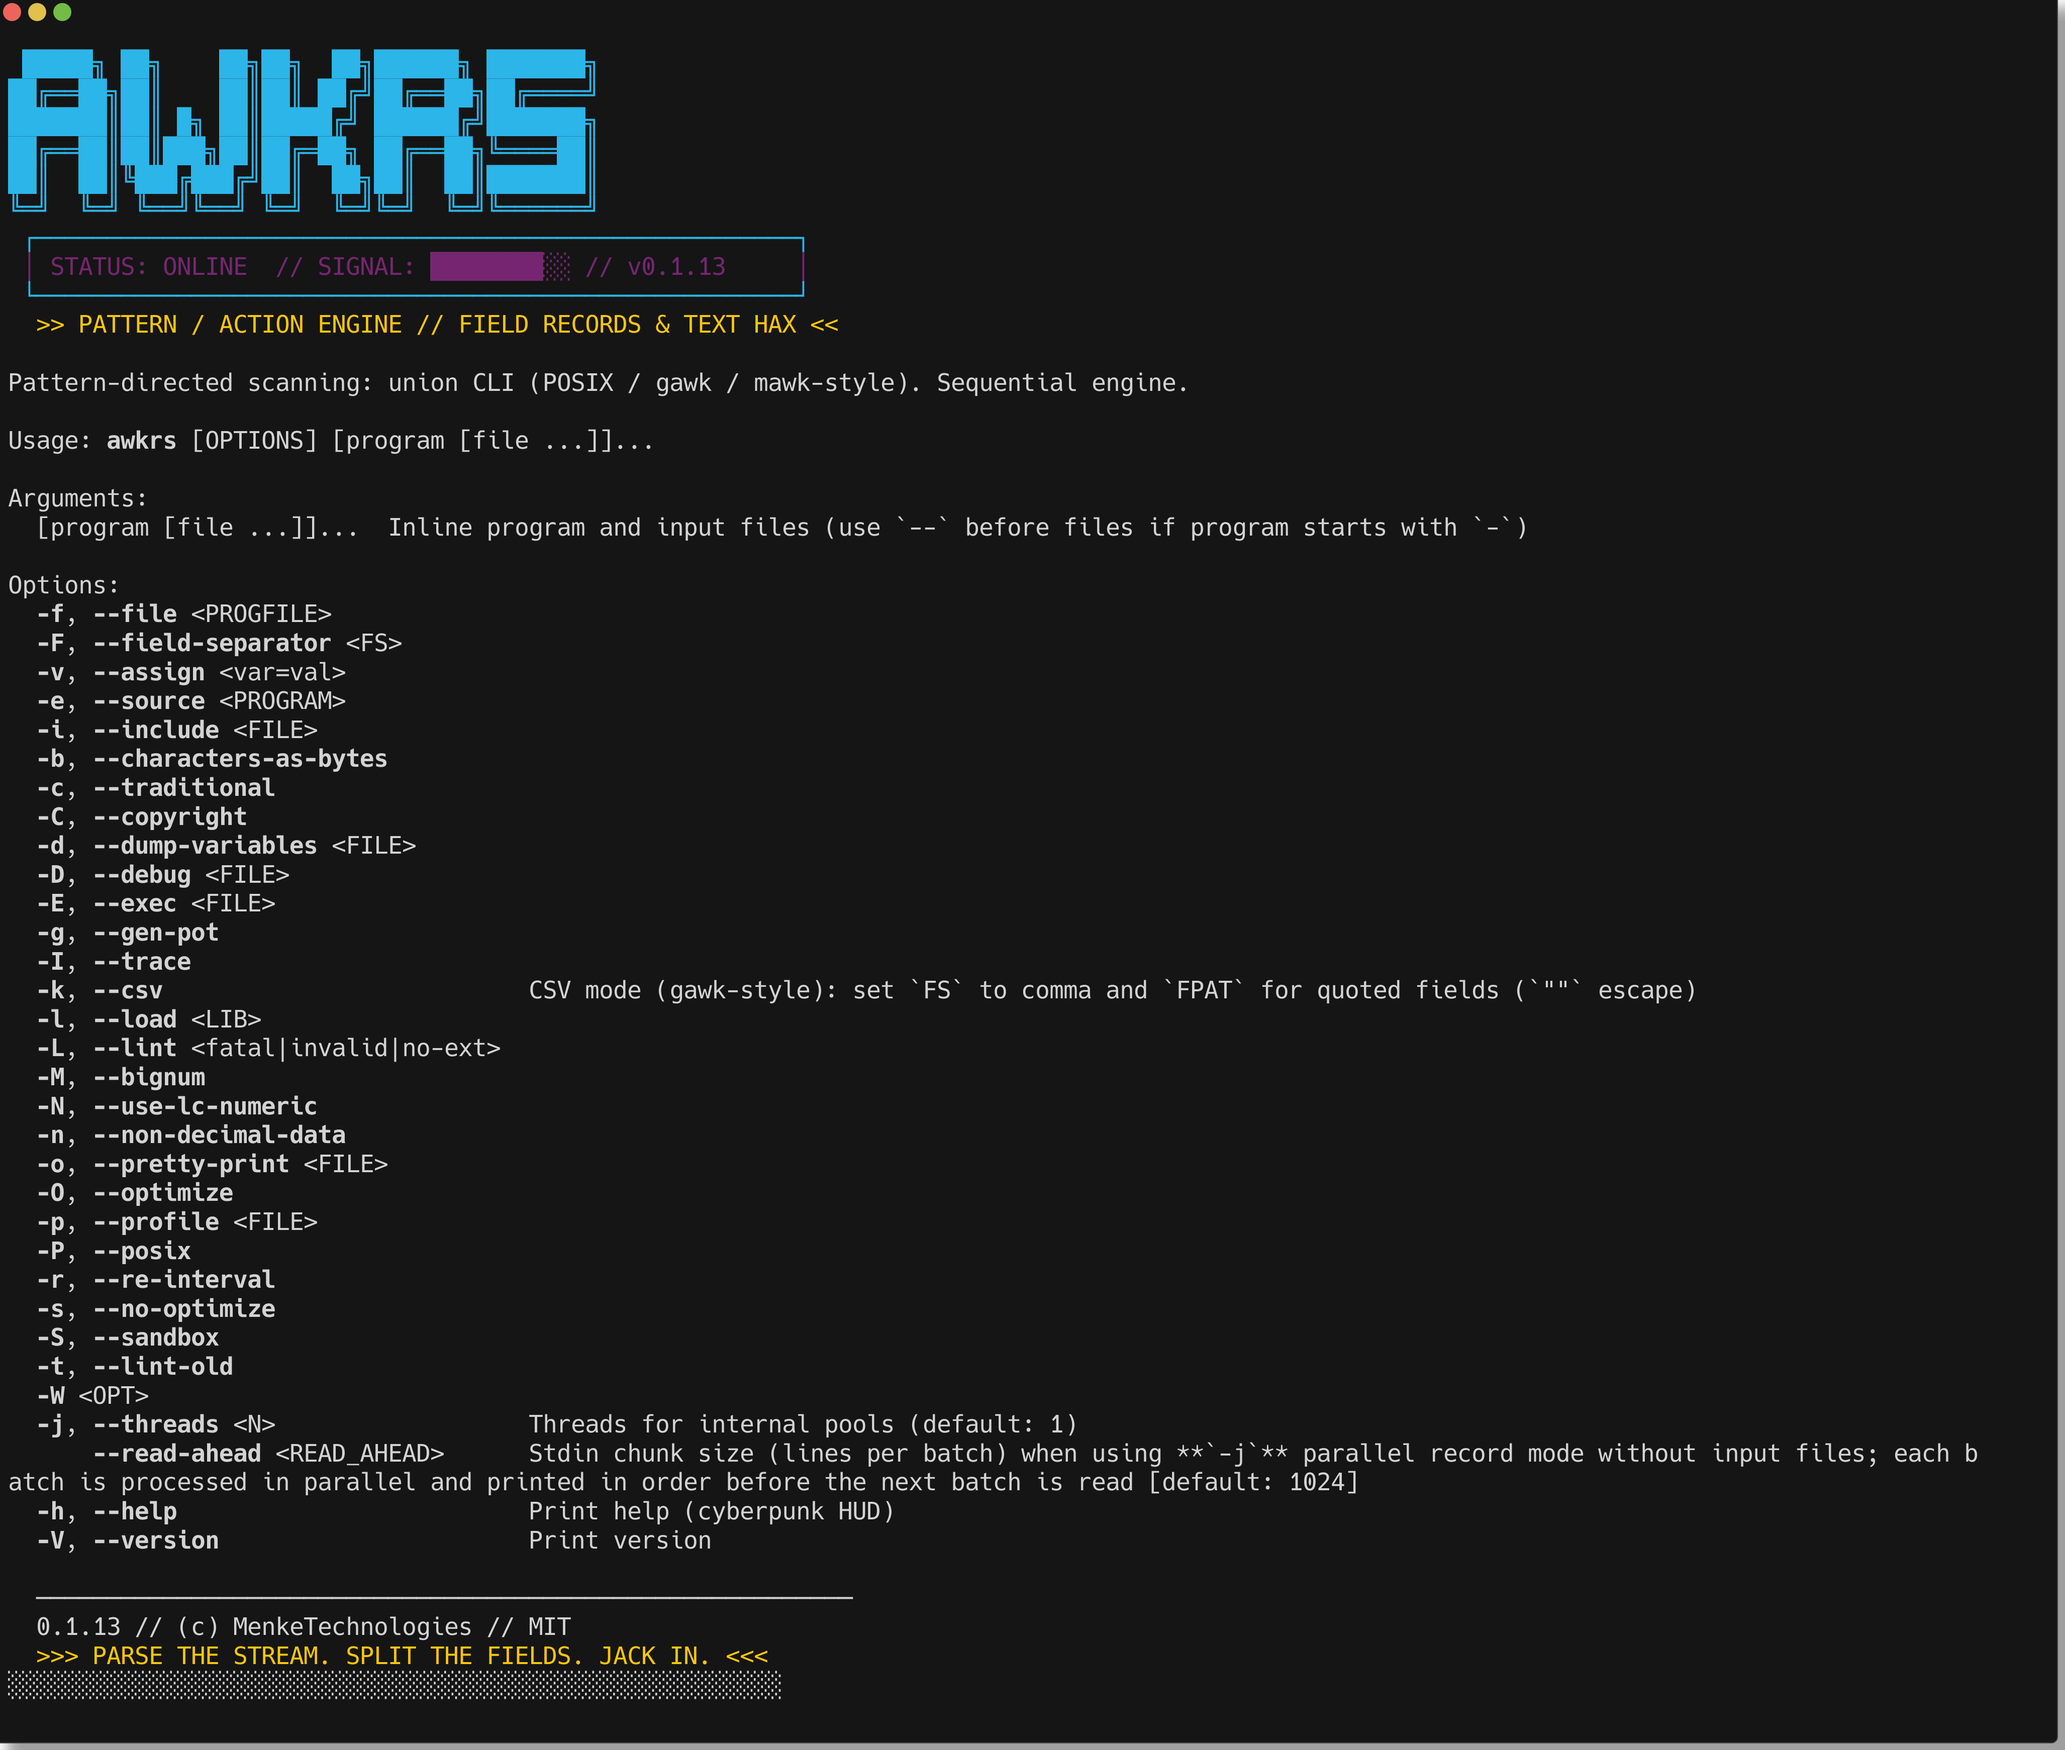
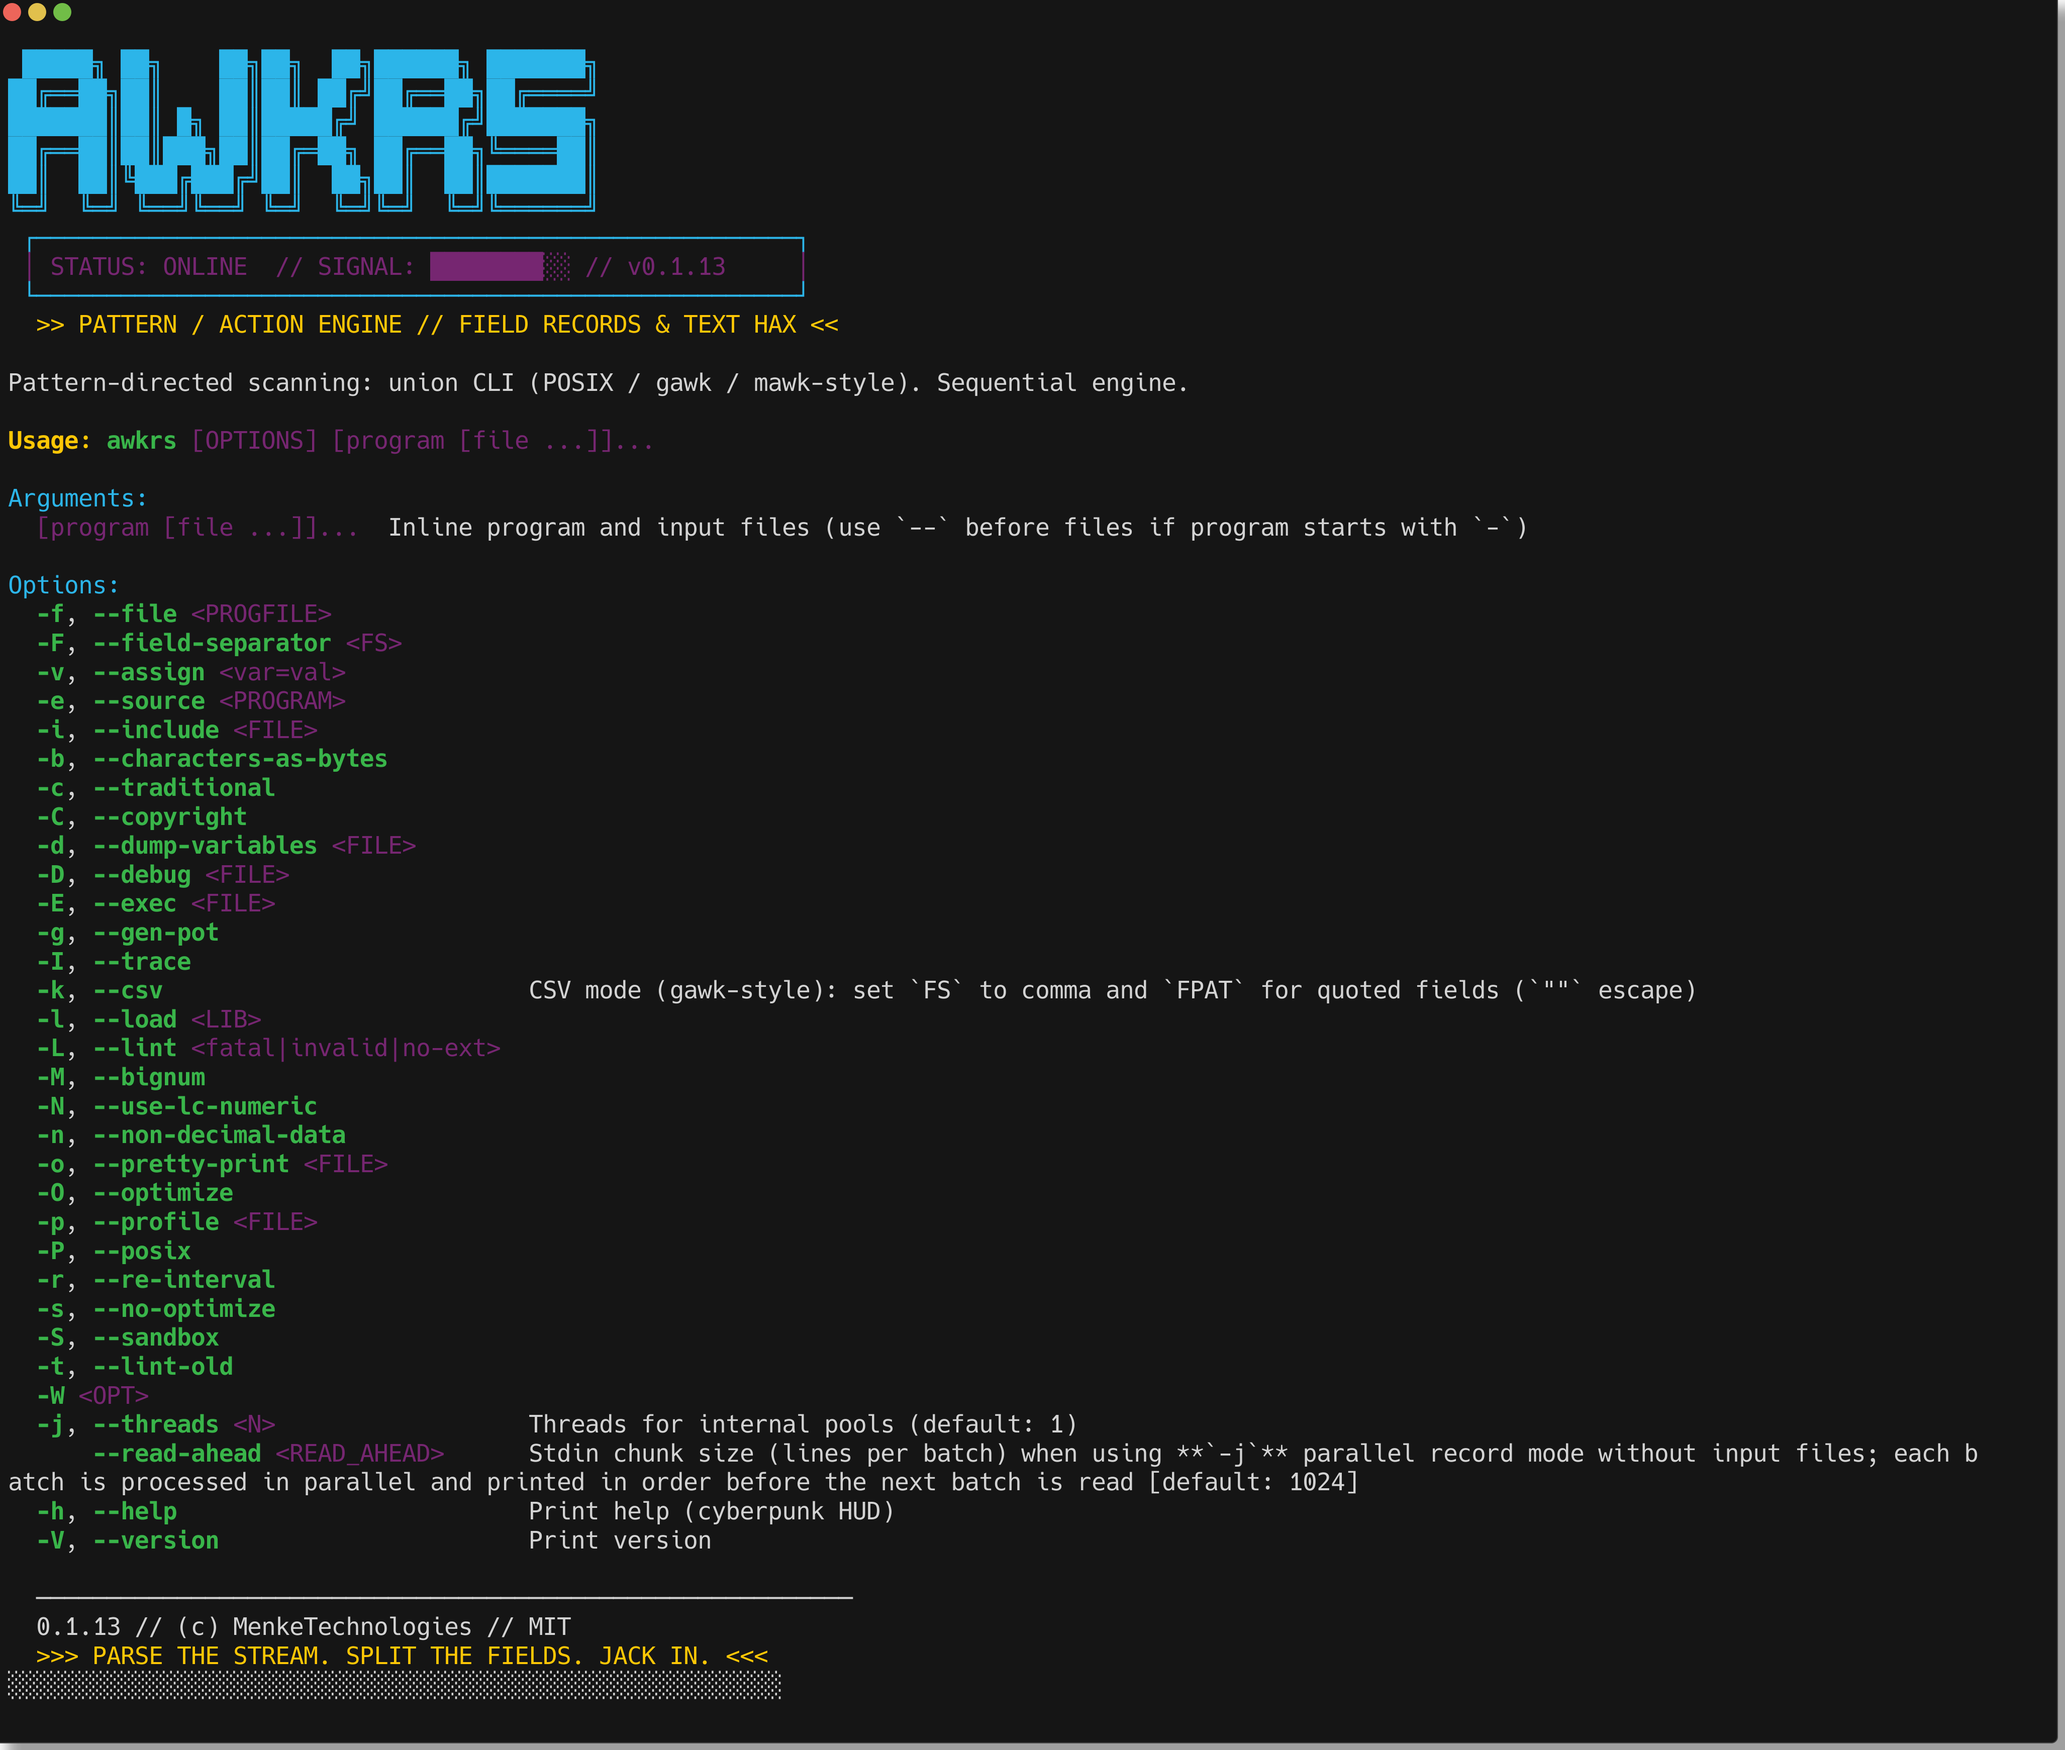
feat(help): full-color cyberpunk styles for clap help output
Add CLICOLOR_FORCE support and clap Styles with cyberpunk color theme:
cyan headers, green flags, magenta placeholders, yellow usage line.
Re-capture the README screenshot with full ANSI color via termshot.

diff --git a/src/cyber_help.rs b/src/cyber_help.rs
@@ -2,15 +2,28 @@
 
 use std::io::{self, IsTerminal, Write};
 
+use clap::builder::styling::{AnsiColor, Effects, Style, Styles};
 use clap::CommandFactory;
 
 use crate::cli::Args;
+
+fn cyber_styles() -> Styles {
+    Styles::styled()
+        .header(Style::new().fg_color(Some(AnsiColor::Cyan.into())).effects(Effects::BOLD | Effects::UNDERLINE))
+        .usage(Style::new().fg_color(Some(AnsiColor::Yellow.into())).effects(Effects::BOLD))
+        .literal(Style::new().fg_color(Some(AnsiColor::Green.into())).effects(Effects::BOLD))
+        .placeholder(Style::new().fg_color(Some(AnsiColor::Magenta.into())))
+        .valid(Style::new().fg_color(Some(AnsiColor::Green.into())))
+        .invalid(Style::new().fg_color(Some(AnsiColor::Red.into())).effects(Effects::BOLD))
+        .error(Style::new().fg_color(Some(AnsiColor::Red.into())).effects(Effects::BOLD))
+}
 
 /// Inner width between `┌` and `┐` (matches `tp -h` layout).
 const BOX_INNER: usize = 54;
 
 fn color_on() -> bool {
-    std::env::var_os("NO_COLOR").is_none() && io::stdout().is_terminal()
+    std::env::var_os("NO_COLOR").is_none()
+        && (io::stdout().is_terminal() || std::env::var_os("CLICOLOR_FORCE").is_some())
 }
 
 fn c_cyan(s: &str) -> String {
@@ -106,15 +119,19 @@ pub fn print_cyberpunk_help(bin_name: &str) {
     );
     let _ = writeln!(out);
 
-    let _ = Args::command()
+    let mut cmd = Args::command()
         .bin_name(bin_name)
+        .styles(cyber_styles())
         .help_template(
             "\
 {usage-heading} {usage}
 
 {all-args}",
-        )
-        .print_help();
+        );
+    if color_on() {
+        cmd = cmd.color(clap::ColorChoice::Always);
+    }
+    let _ = cmd.print_help();
     let _ = write!(out, "{}", footer(version));
     let _ = writeln!(out);
 }
